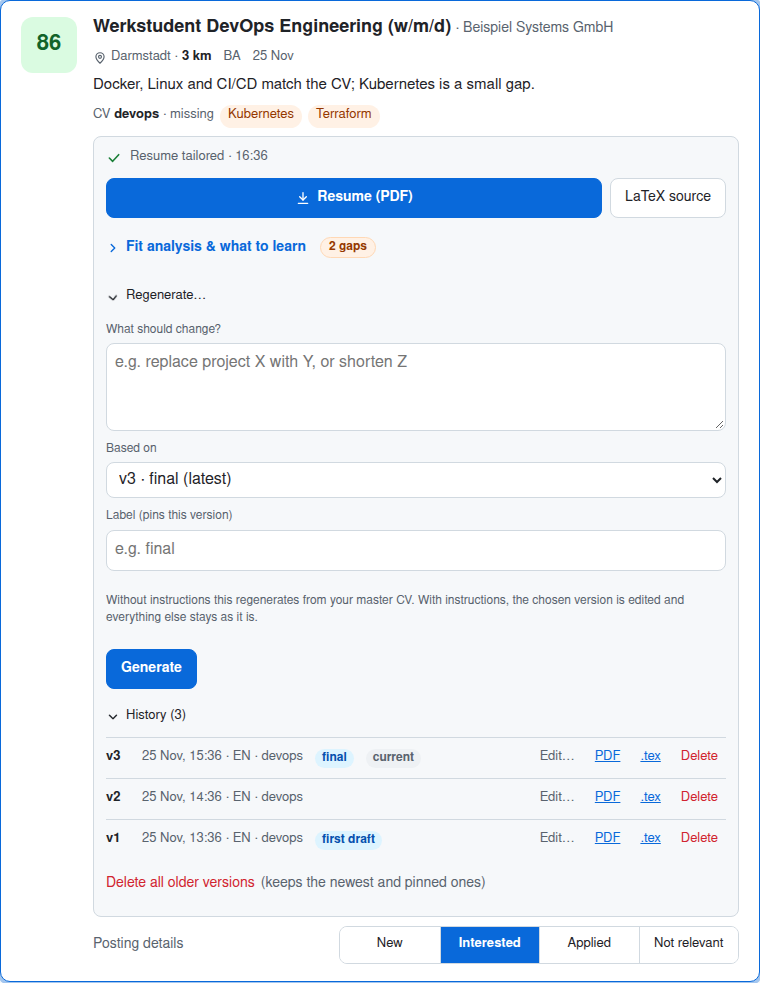
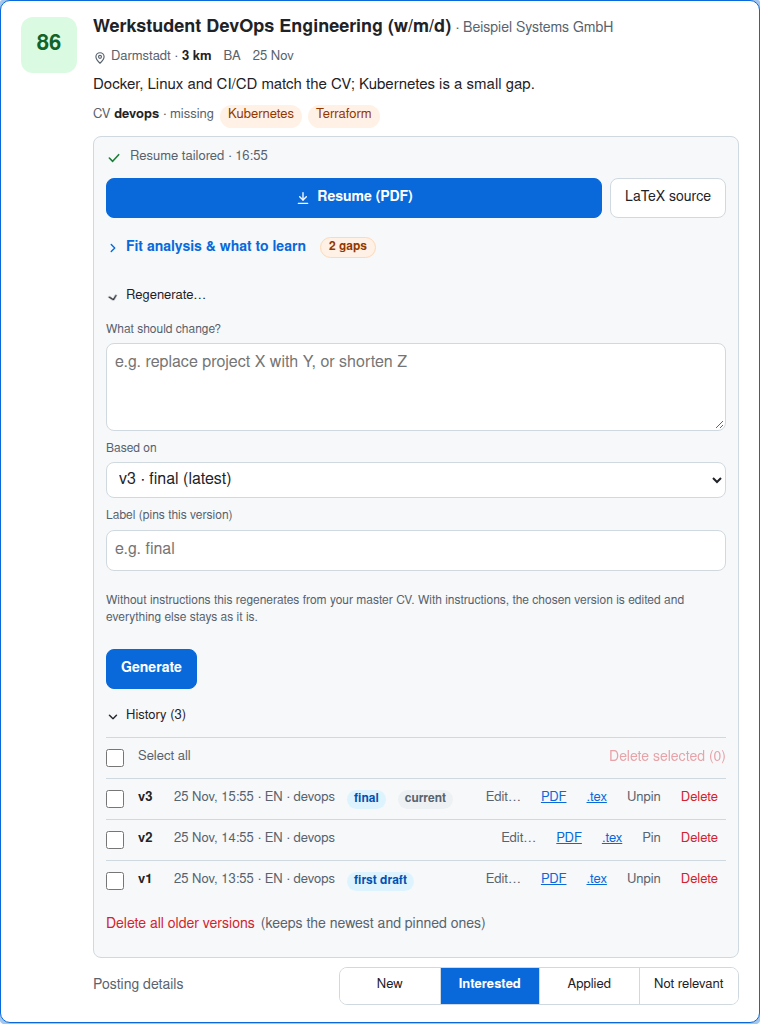
History stays open after changes; select several versions and delete them; pin and unpin
- refreshTailor keeps open panels (History, Regenerate, Fit), ticked versions and the Regenerate form text.
- Checkboxes, Select all and 'Delete selected (N)'; deleting the current version among them promotes the
  newest remaining one (cv.delete_versions accepts a list; /api/resume/delete takes ns).
- Pin/Unpin per version (/api/resume/pin); unpinning also clears the label, since a label always pins.
- Screenshots refreshed.

diff --git a/dashboard.py b/dashboard.py
@@ -15,6 +15,7 @@ import sys
 from collections import Counter, defaultdict
 from datetime import datetime, timedelta, timezone
 from pathlib import Path
+from typing import Annotated
 from urllib.parse import quote, urlsplit
 from zoneinfo import ZoneInfo
 
@@ -180,10 +181,20 @@ async def _request_tailor(body: TailorRequest, request: Request):
     return {"state": "queued"}
 
 
+VersionNo = Annotated[int, Field(ge=1, le=2**31 - 1)]
+
+
 class DeleteVersions(BaseModel):
     id: str
-    n: int | None = Field(default=None, ge=1, le=2**31 - 1)
+    n: VersionNo | None = None
+    ns: list[VersionNo] | None = Field(default=None, max_length=50)  # several versions at once
     all_older: bool = False
+
+
+class PinVersion(BaseModel):
+    id: str
+    n: VersionNo
+    pinned: bool
 
 
 @app.post("/api/resume/delete")
@@ -199,14 +210,29 @@ async def _delete_resume_versions(body: DeleteVersions, request: Request):
     origin = request.headers.get("origin")
     if origin and urlsplit(origin).netloc.lower() not in allowed_hosts():
         return JSONResponse({"error": "bad origin"}, status_code=403)
-    if body.n is None and not body.all_older:
-        return JSONResponse({"error": "give a version number or all_older"}, status_code=422)
+    if body.n is None and not body.ns and not body.all_older:
+        return JSONResponse({"error": "give a version number, a list of them, or all_older"}, status_code=422)
     with db() as con:
         try:
-            deleted = cv.delete_versions(con, body.id, body.n, body.all_older)
+            deleted = cv.delete_versions(con, body.id, body.ns or body.n, body.all_older)
         except ValueError as exc:
             return JSONResponse({"error": str(exc)}, status_code=409)
     return {"deleted": deleted}
+
+
+@app.post("/api/resume/pin")
+async def pin_resume_version(body: PinVersion, request: Request):
+    origin = request.headers.get("origin")
+    if origin and urlsplit(origin).netloc.lower() not in allowed_hosts():
+        return JSONResponse({"error": "bad origin"}, status_code=403)
+    try:
+        with db() as con:
+            cv.set_pin(con, body.id, body.n, body.pinned)
+    except ValueError as exc:
+        return JSONResponse({"error": str(exc)}, status_code=404)
+    except sqlite3.OperationalError as exc:
+        return busy(exc)
+    return {"pinned": body.pinned}
 
 
 @app.get("/api/tailor/status")
@@ -595,21 +621,26 @@ def render_history(r, versions: list, state: str | None) -> str:
         tags = " · ".join(x for x in (str(v["lang"] or "").upper(), v["role"] or "") if x)
         meta = " · ".join(x for x in (when, tags) if x)
         label = str(v["label"] or "").strip()
-        pin = f' <span class="tag keep">{e(label)}</span>' if label else ""
+        pin = f' <span class="tag keep">{e(label or "pinned")}</span>' if v["keep"] else ""
         cur = ' <span class="tag nice">current</span>' if n == latest and state == "done" else ""
         links = (f'<a href="/files/{token}.v{n}.pdf" download aria-label="Download version {n} as PDF">PDF</a>' if v["pdf"] else "") + \
                 f'<a href="/files/{token}.v{n}.tex" download aria-label="Download version {n} LaTeX source">.tex</a>'
         edit = f'<button type="button" class="lnk muted" data-act="edit-version" data-n="{n}" aria-label="Edit version {n}">Edit…</button>'
         dele = (f'<button type="button" class="lnk del" data-act="resume-delete" data-n="{n}" data-pinned="{int(bool(v["keep"]))}" '
                 f'data-cur="{int(n == latest)}" data-prev="{int(len(versions) > 1)}" aria-label="Delete version {n}">Delete</button>')
-        items.append(f'<li><span class="vn">v{n}</span><span class="muted vm">{e(meta)}</span>{pin}{cur}'
-                     f'<span class="vl">{edit}{links}{dele}</span></li>')
+        pinb = (f'<button type="button" class="lnk muted" data-act="resume-pin" data-n="{n}" data-pinned="{int(bool(v["keep"]))}" '
+                f'aria-label="{"Unpin" if v["keep"] else "Pin"} version {n}">{"Unpin" if v["keep"] else "Pin"}</button>')
+        sel = f'<input type="checkbox" class="vsel" data-n="{n}" aria-label="Select version {n}">'
+        items.append(f'<li>{sel}<span class="vn">v{n}</span><span class="muted vm">{e(meta)}</span>{pin}{cur}'
+                     f'<span class="vl">{edit}{links}{pinb}{dele}</span></li>')
     older = ""
     if any(int(v["n"]) != latest and not v["keep"] for v in versions):
         older = ('<button type="button" class="lnk del" data-act="resume-delete-older">Delete all older versions '
                  '<span class="muted">(keeps the newest and pinned ones)</span></button>')
+    bulk = ('<div class="vbulk"><label class="vall"><input type="checkbox" data-act="select-all" aria-label="Select all versions"> Select all</label>'
+            '<button type="button" class="lnk del" data-act="resume-delete-selected" disabled>Delete selected (0)</button></div>')
     return (f'<details class="hist"><summary>{icon("chevron", 14, 2.4)}History ({len(versions)})</summary>'
-            f'<ul>{"".join(items)}</ul>{older}</details>')
+            f'{bulk}<ul>{"".join(items)}</ul>{older}</details>')
 
 
 def render_regen(r, versions: list | None) -> str:
@@ -824,6 +855,10 @@ main{padding:8px 16px 24px;display:flex;flex-direction:column;gap:12px}
 .hist .vl a{display:inline-flex;align-items:center;min-height:40px;padding:0 8px}
 .hist .vl .lnk{padding:0 8px;font-size:13px}.hist .del,.lnk.del{color:var(--danger)}.hist>.lnk.del{margin-top:4px}
 .tag.keep{background:var(--accent-tint);color:var(--accent-fg)}
+.vbulk{display:flex;align-items:center;justify-content:space-between;gap:8px;min-height:40px;border-top:1px solid var(--line)}
+.vall{display:inline-flex;align-items:center;gap:8px;font-size:13px;color:var(--muted);min-height:40px;cursor:pointer}
+.vbulk .lnk[disabled]{opacity:.4;cursor:not-allowed}
+.hist input[type=checkbox]{width:18px;height:18px;margin:0 6px 0 0;accent-color:var(--accent-solid);flex-shrink:0}
 .fit summary .gapcount{margin-left:8px;white-space:nowrap;flex-shrink:0;font-size:12px;font-weight:600;border-radius:999px;padding:1px 8px;background:var(--gap-tint);color:var(--gap-fg);border:1px solid var(--gap-line)}
 .md .lead{margin:0 0 6px;font-size:13px;color:var(--muted)}
 .fitsec h4{display:flex;align-items:center;gap:6px}.fitsec.gaps h4{color:var(--gap-fg)}
@@ -981,7 +1016,15 @@ async function refreshTailor(c){
   try{
     const r=await fetch('/api/tailor/fragment?id='+encodeURIComponent(c.dataset.id));if(!r.ok)return;
     const t=document.createElement('div');t.innerHTML=await r.text();const n=t.firstElementChild,old=$('.tailor',c);
-    if(n&&old)old.replaceWith(n);
+    if(!n||!old)return;
+    // keep what the user had open or typed: panels, ticked versions, the Regenerate form
+    const open=$$('details[open]',old).map(d=>d.classList[0]),ticked=$$('input.vsel:checked',old).map(i=>i.dataset.n);
+    const form={};$$('.regenform [data-f]',old).forEach(f=>{form[f.dataset.f]=f.value;});
+    old.replaceWith(n);
+    open.forEach(k=>{const d=$('details.'+k,n);if(d)d.open=true;});
+    ticked.forEach(v=>{const i=$('input.vsel[data-n="'+v+'"]',n);if(i)i.checked=true;});
+    $$('.regenform [data-f]',n).forEach(f=>{if(form[f.dataset.f]!==undefined&&(f.tagName!=='SELECT'||[...f.options].some(o=>o.value===form[f.dataset.f])))f.value=form[f.dataset.f];});
+    syncSel(n);
   }catch(e){}
 }
 async function startTailor(c,opts){
@@ -1000,11 +1043,29 @@ async function deleteVersions(c,payload,msg){
     say(j.deleted.length?('Deleted '+j.deleted.map(n=>'v'+n).join(', ')):'Nothing to delete');await refreshTailor(c);
   }catch(err){say('Could not delete: '+err.message);}
 }
+function syncSel(scope){
+  const h=$('.hist',scope);if(!h)return;
+  const boxes=$$('input.vsel',h),n=boxes.filter(b=>b.checked).length,b=$('[data-act=resume-delete-selected]',h),all=$('[data-act=select-all]',h);
+  if(b){b.textContent='Delete selected ('+n+')';b.disabled=n===0;}
+  if(all){all.checked=n>0&&n===boxes.length;all.indeterminate=n>0&&n<boxes.length;}
+}
+async function pinVersion(c,n,pinned){
+  try{
+    const r=await fetch('/api/resume/pin',{method:'POST',headers:{'Content-Type':'application/json'},body:JSON.stringify({id:c.dataset.id,n,pinned})});
+    const j=await r.json().catch(()=>({}));if(!r.ok)throw new Error(j.error||r.status);
+    say('v'+n+(pinned?' pinned':' unpinned'));await refreshTailor(c);
+  }catch(err){say('Could not change the pin: '+err.message);}
+}
 function setKb(c){if(cur)cur.classList.remove('kb');cur=c;if(c){c.classList.add('kb');c.scrollIntoView({block:'nearest'});}}
 function move(d){
   const vis=cards().filter(c=>!c.hidden);if(!vis.length)return;
   let i=vis.indexOf(cur);i=i<0?(d>0?0:vis.length-1):Math.max(0,Math.min(vis.length-1,i+d));setKb(vis[i]);
 }
+document.addEventListener('change',e=>{
+  const t=e.target,c=t.closest&&t.closest('.card');if(!c)return;
+  if(t.matches('[data-act=select-all]'))$$('input.vsel',c).forEach(i=>{i.checked=t.checked;});
+  if(t.matches('input.vsel, [data-act=select-all]'))syncSel(c);
+});
 document.addEventListener('click',e=>{
   const t=e.target;
   const sb=t.closest('.seg button');if(sb){setStatus(sb.closest('.card'),sb.dataset.s,false);return;}
@@ -1018,6 +1079,11 @@ document.addEventListener('click',e=>{
     else if(a.dataset.act==='edit-version'&&c){const box=$('.regen',c);if(box){box.open=true;$('[data-f=base]',box).value=a.dataset.n;$('[data-f=notes]',box).focus();}}
     else if(a.dataset.act==='resume-delete'&&c){const d=a.dataset;
       deleteVersions(c,{n:+d.n},'Delete version v'+d.n+(d.pinned==='1'?' (pinned: you labelled it to keep it)':'')+(d.cur==='1'?(d.prev==='1'?', your CURRENT resume? The previous version becomes current':', your only resume? The resume for this job will be removed'):'? ')+'. This cannot be undone.');}
+    else if(a.dataset.act==='resume-pin'&&c)pinVersion(c,+a.dataset.n,a.dataset.pinned!=='1');
+    else if(a.dataset.act==='resume-delete-selected'&&c){
+      const ns=$$('input.vsel:checked',c).map(i=>+i.dataset.n);if(!ns.length)return;
+      const pinned=ns.some(n=>$('.hist [data-act=resume-delete][data-n="'+n+'"]',c).dataset.pinned==='1');
+      deleteVersions(c,{ns},'Delete '+ns.length+' version'+(ns.length>1?'s':'')+' ('+ns.map(n=>'v'+n).join(', ')+')'+(pinned?', including pinned ones':'')+'? If the current resume is among them, the newest remaining version becomes current. This cannot be undone.');}
     else if(a.dataset.act==='resume-delete-older'&&c)deleteVersions(c,{all_older:true},'Delete all older versions except the newest and the pinned ones? This cannot be undone.');
     else if(a.dataset.act==='undo')doUndo();
     else if(a.dataset.act==='view'){showView(a.dataset.view);toast.hidden=true;}

diff --git a/tests/test_dashboard.py b/tests/test_dashboard.py
@@ -366,6 +366,39 @@ class FrontPageTests(unittest.TestCase):
             self.assertIn(needle, h)
 
 
+class HistorySelectionTests(unittest.TestCase):
+    def v(self, n, label=None, keep=0):
+        return Row(job_id="t:1", n=n, created="2026-11-16 09:03:00", role="devops", lang="de", pdf=1, label=label, keep=keep)
+
+    def html(self, versions):
+        return d.render_tailor(Row(id="t:1", score=78, tj_state="done", tj_pdf=1, tj_warnings="[]",
+                                   tj_finished="2026-11-24 16:14:00"), versions)
+
+    def test_every_version_has_a_checkbox_and_the_bulk_controls_start_disabled(self):
+        h = self.html([self.v(3), self.v(2), self.v(1)])
+        for n in (1, 2, 3):
+            self.assertIn(f'<input type="checkbox" class="vsel" data-n="{n}"', h)
+        self.assertIn('data-act="select-all"', h)
+        self.assertRegex(h, r'data-act="resume-delete-selected" disabled>Delete selected \(0\)')
+
+    def test_pin_and_unpin_buttons_reflect_the_state_and_a_pin_without_a_label_shows_pinned(self):
+        h = self.html([self.v(2), self.v(1, None, 1)])
+        self.assertIn('data-act="resume-pin" data-n="1" data-pinned="1"', h)
+        self.assertIn('aria-label="Unpin version 1"', h)
+        self.assertIn('class="tag keep">pinned', h)
+        h2 = self.html([self.v(2), self.v(1)])
+        self.assertIn('data-act="resume-pin" data-n="2" data-pinned="0"', h2)
+        self.assertIn('aria-label="Pin version 2"', h2)
+        self.assertNotIn("tag keep", h2)
+
+    def test_the_script_keeps_open_panels_selection_and_form_text_across_refreshes(self):
+        import inspect
+        src = inspect.getsource(d)
+        for needle in ("$$('details[open]',old)", "$$('input.vsel:checked',old)", "$$('.regenform [data-f]',old)", "syncSel(n)",
+                       "pinVersion(c,", "resume-delete-selected"):
+            self.assertIn(needle, src)
+
+
 class RouteTests(unittest.TestCase):
     """The new JSON routes called directly (no HTTP server in the test environment): validation, origin check, persistence."""
 
@@ -456,6 +489,25 @@ class RouteTests(unittest.TestCase):
         self.assertEqual(self.call(d.delete_resume_versions, d.DeleteVersions(id="t:1", n=2)), (200, {"deleted": [2]}))
         self.assertEqual((radar.TAILORED_DIR / f"{self.token}.tex").read_bytes(), b"v1")  # v1 is current again
 
+
+    def test_delete_route_takes_a_list_and_rejects_nothing_selected_and_bad_numbers(self):
+        status, body = self.call(d.delete_resume_versions, d.DeleteVersions(id="t:1", ns=[1, 2]))
+        self.assertEqual((status, sorted(body["deleted"])), (200, [1, 2]))
+        self.assertEqual(self.call(d.delete_resume_versions, d.DeleteVersions(id="t:1", ns=[]))[0], 422)
+        from pydantic import ValidationError
+        for bad in ([0], [2**40], list(range(1, 52))):
+            with self.assertRaises(ValidationError, msg=bad[:2]):
+                d.DeleteVersions(id="t:1", ns=bad)
+
+    def test_pin_route(self):
+        self.assertEqual(self.call(d.pin_resume_version, d.PinVersion(id="t:1", n=1, pinned=True)), (200, {"pinned": True}))
+        con = sqlite3.connect(radar.DB_PATH)
+        try:
+            self.assertEqual(con.execute("SELECT keep FROM resume_versions WHERE n = 1").fetchone()[0], 1)
+        finally:
+            con.close()
+        self.assertEqual(self.call(d.pin_resume_version, d.PinVersion(id="t:1", n=9, pinned=True))[0], 404)
+        self.assertEqual(self.call(d.pin_resume_version, d.PinVersion(id="t:1", n=1, pinned=False), origin="http://evil.example")[0], 403)
 
     def test_a_locked_database_is_a_503_not_a_crash(self):
         from unittest import mock

diff --git a/tests/test_cv.py b/tests/test_cv.py
@@ -522,6 +522,61 @@ class VersionHistoryTests(unittest.TestCase):
             with self.assertRaises(ValueError, msg=repr(bad)):
                 cv.set_label(self.db, self.job, 1, bad)
 
+    def test_several_versions_can_be_deleted_at_once_and_duplicates_are_harmless(self):
+        self.make(4)
+        self.assertEqual(sorted(cv.delete_versions(self.db, self.job, [1, 3, 3])), [1, 3])
+        self.assertEqual([r["n"] for r in self.rows()], [2, 4])
+        self.assertTrue(self.archived(4, "tex").exists() and not self.archived(1, "tex").exists() and not self.archived(3, "tex").exists())
+        self.assertEqual((radar.TAILORED_DIR / f"{self.token}.tex").read_text(), "text 4")  # the current resume was not touched
+
+    def test_deleting_the_current_version_among_several_promotes_the_newest_remaining_one(self):
+        self.make(4)
+        cv.delete_versions(self.db, self.job, [4, 3])
+        self.assertEqual([r["n"] for r in self.rows()], [1, 2])
+        self.assertEqual((radar.TAILORED_DIR / f"{self.token}.tex").read_text(), "text 2")
+
+    def test_selecting_everything_removes_the_resume_and_resets_the_job(self):
+        self.make(2)
+        self.db.execute("INSERT INTO tailor_jobs (job_id, state) VALUES (?, 'done')", (self.job,))
+        self.db.commit()
+        cv.delete_versions(self.db, self.job, [1, 2])
+        self.assertEqual(self.rows(), [])
+        self.assertFalse((radar.TAILORED_DIR / f"{self.token}.tex").exists())
+        self.assertIsNone(self.db.execute("SELECT 1 FROM tailor_jobs WHERE job_id = ?", (self.job,)).fetchone())
+
+    def test_an_empty_or_partly_unknown_selection_deletes_nothing(self):
+        self.make(2)
+        for bad in ([], [1, 9]):
+            with self.assertRaises(ValueError, msg=bad):
+                cv.delete_versions(self.db, self.job, bad)
+        self.assertEqual([r["n"] for r in self.rows()], [1, 2])
+        self.assertTrue(self.archived(1, "tex").exists())
+
+    def test_pin_and_unpin(self):
+        self.make(2)
+        cv.set_pin(self.db, self.job, 1, True)
+        self.assertEqual([(r["n"], r["keep"], r["label"]) for r in self.rows()], [(1, 1, None), (2, 0, None)])
+        cv.set_label(self.db, self.job, 2, "final")
+        cv.set_pin(self.db, self.job, 2, False)                      # unpinning also drops the label: a label always pins
+        self.assertEqual([(r["n"], r["keep"], r["label"]) for r in self.rows()], [(1, 1, None), (2, 0, None)])
+        with self.assertRaises(ValueError):
+            cv.set_pin(self.db, self.job, 9, True)
+        self.assertFalse(self.db.in_transaction)
+
+    def test_a_pinned_version_survives_retention_and_an_unpinned_one_does_not(self):
+        old = radar.KEEP_VERSIONS
+        radar.KEEP_VERSIONS = 1
+        try:
+            self.make(1)
+            cv.set_pin(self.db, self.job, 1, True)
+            self.make(3)                                              # snapshots 2, 3, 4
+            self.assertEqual([r["n"] for r in self.rows()], [1, 4])
+            cv.set_pin(self.db, self.job, 1, False)
+            self.make(1)                                              # snapshot 5 prunes the unpinned v1 and v4
+        finally:
+            radar.KEEP_VERSIONS = old
+        self.assertEqual([r["n"] for r in self.rows()], [5])
+
     def test_unknown_versions_cannot_be_deleted(self):
         self.make(2)
         with self.assertRaises(ValueError):

diff --git a/cv.py b/cv.py
@@ -419,10 +419,20 @@ def _stage_copy(src: Path, directory: Path) -> Path:
     return Path(tmp)
 
 
-def delete_versions(db: sqlite3.Connection, job_id: str, n: int | None = None, all_older: bool = False) -> list[int]:
-    """Delete archived versions; `all_older` skips the newest and pinned (labelled) versions. Deleting the newest
-    version (the current resume) makes the previous one current again, or, if it was the only one, removes the resume
-    and resets the job's tailor state. Refused while a resume is queued or being generated for the job.
+def set_pin(db: sqlite3.Connection, job_id: str, n: int, pinned: bool) -> None:
+    """Pin a version (retention never deletes it) or unpin it; unpinning also clears its label, since a label always pins."""
+    cur = db.execute("UPDATE resume_versions SET keep = ?, label = CASE WHEN ? THEN label ELSE NULL END WHERE job_id = ? AND n = ?",
+                     (int(pinned), int(pinned), job_id, n))
+    if not cur.rowcount:
+        db.rollback()
+        raise ValueError(f"version {n} does not exist")
+    db.commit()
+
+
+def delete_versions(db: sqlite3.Connection, job_id: str, n: int | list[int] | None = None, all_older: bool = False) -> list[int]:
+    """Delete archived versions: one number, a list of numbers, or `all_older` (skips the newest and pinned ones).
+    Deleting the newest version (the current resume) makes the newest REMAINING version current, or, if none remains,
+    removes the resume and resets the job's tailor state. Refused while a resume is queued or being generated for the job.
     One write transaction (BEGIN IMMEDIATE) checks and changes the rows, so a worker, the dashboard and the CLI
     serialize; files follow the commit: the promoted version is copied over the current names (atomic replace) and
     only then are the deleted archive files removed."""
@@ -439,13 +449,18 @@ def delete_versions(db: sqlite3.Connection, job_id: str, n: int | None = None, a
         if all_older:
             targets = [r["n"] for r in rows[1:] if not r["keep"]]
         else:
-            if n not in {r["n"] for r in rows}:
-                raise ValueError(f"version {n} does not exist")
-            targets = [n]
+            wanted = [n] if isinstance(n, int) else sorted(set(n or []), reverse=True)
+            if not wanted:
+                raise ValueError("nothing selected")
+            missing = [w for w in wanted if w not in {r["n"] for r in rows}]
+            if missing:
+                raise ValueError("version " + ", ".join(map(str, missing)) + " does not exist")
+            targets = wanted
         token = radar.file_token(job_id)
         promote = None  # (previous version row, its files) when the current resume is being deleted
-        if newest in targets and len(rows) > 1:
-            prev = rows[1]
+        remaining = [r for r in rows if r["n"] not in targets]  # newest first
+        if newest in targets and remaining:
+            prev = remaining[0]
             src_tex, src_pdf = radar.version_path(token, prev["n"], "tex"), radar.version_path(token, prev["n"], "pdf")
             if not src_tex.exists():
                 raise ValueError(f"version {prev['n']} has no files any more, so it cannot become current")
